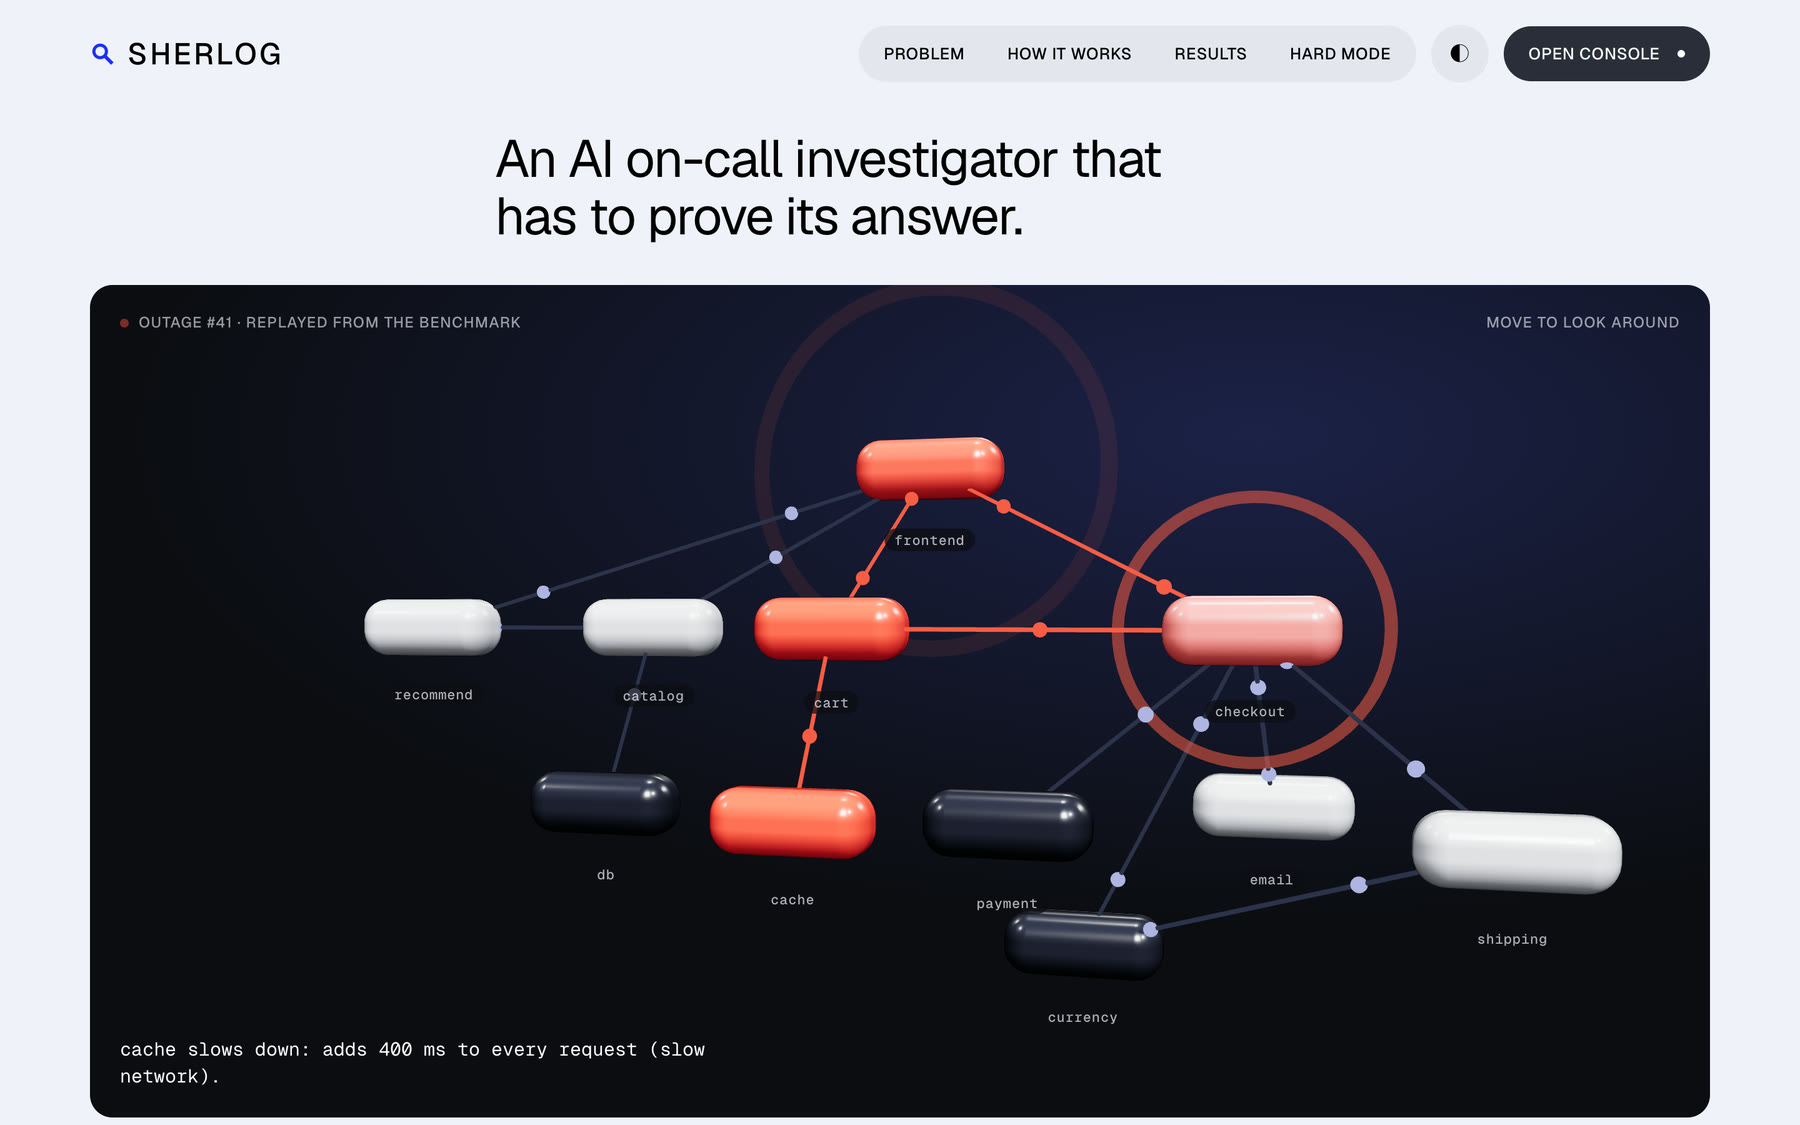
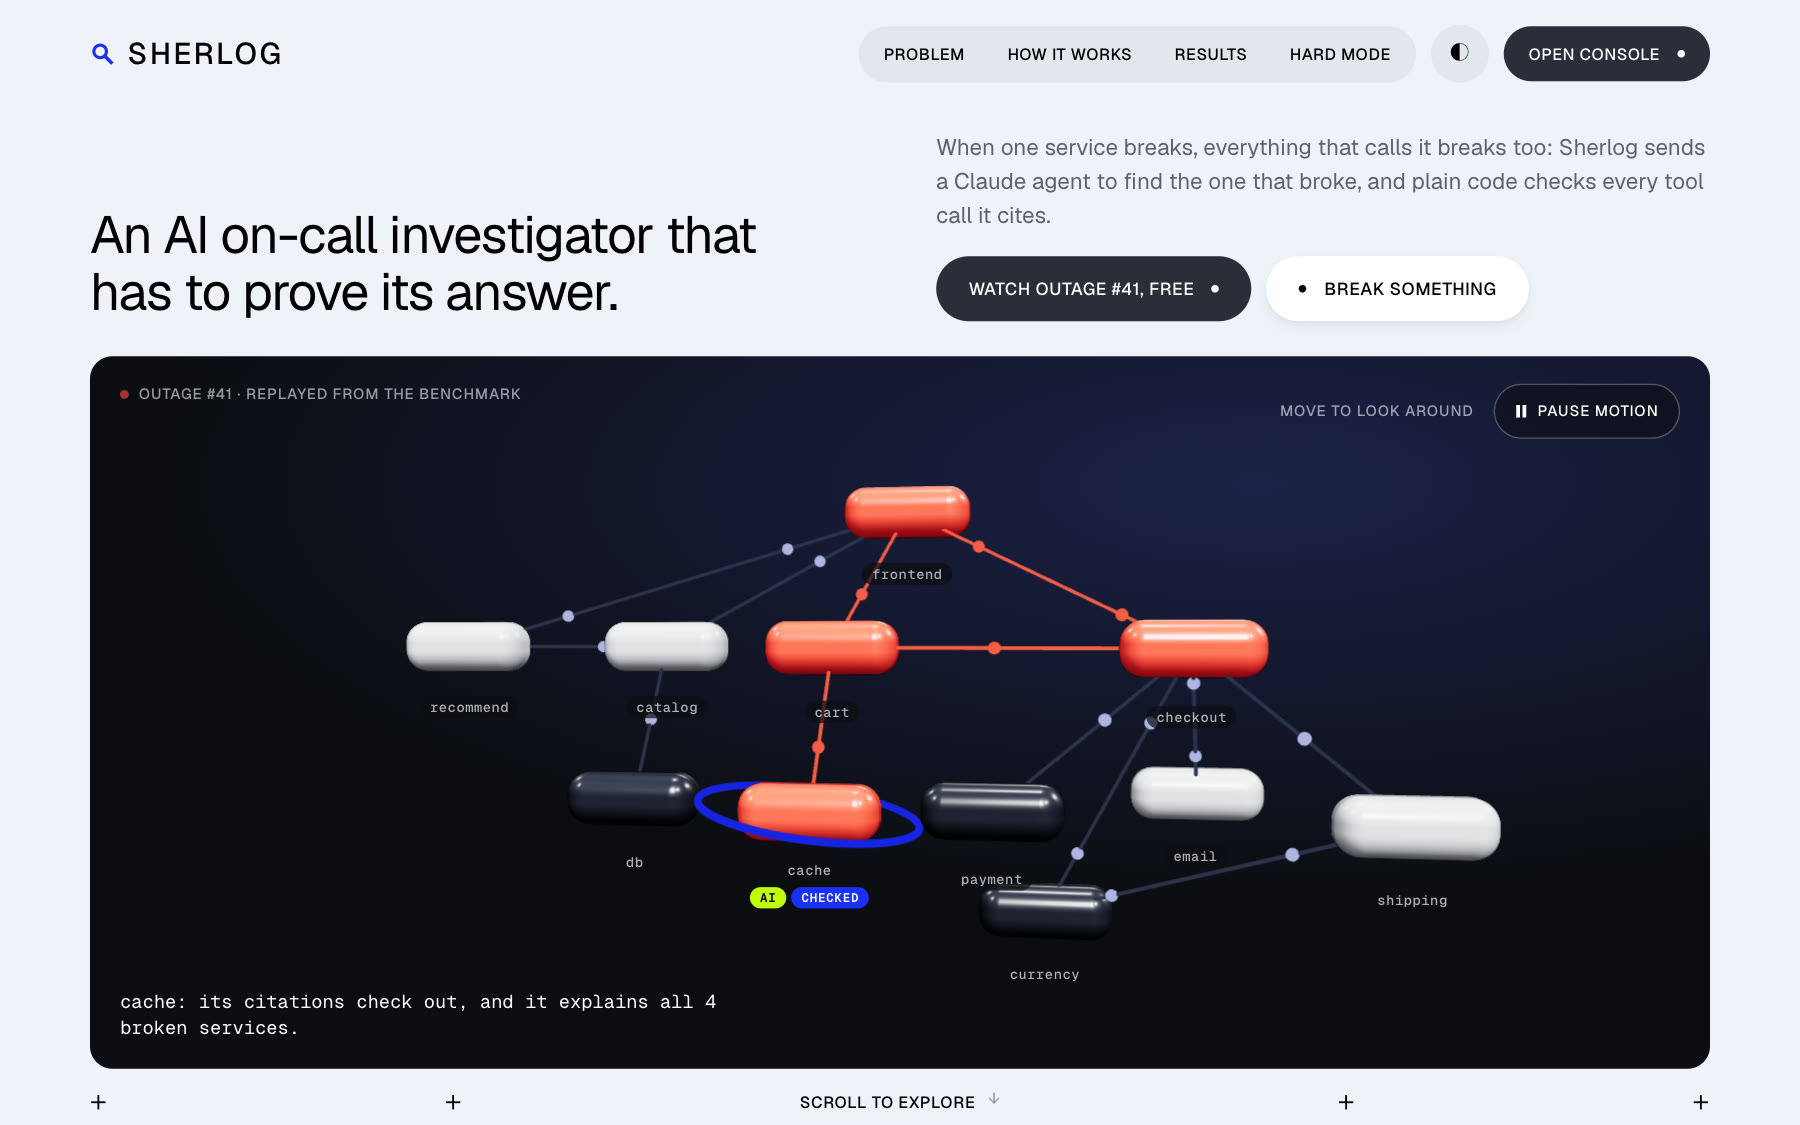
docs: recapture the gallery images from the live site, with alt text to match

diff --git a/README.md b/README.md
@@ -2,7 +2,7 @@
 
 **When one service breaks, everything that calls it breaks too. Sherlog is an AI on-call investigator that finds the one that broke, and has to prove it**: plain code checks every tool call it cites, and a replay with its answer rolled back shows whether the outage really stops.
 
-<p align="center"><a href="https://sherlog-jade.vercel.app"><img src="media/hero.jpg" alt="The Sherlog story page: the headline 'An AI on-call investigator that has to prove its answer' above a dark panel with the shop's eleven services in 3D, replaying outage #41. Cache, cart and frontend glow red and red rings spread as the slowdown reaches checkout. Click to open the live site." width="900"></a></p>
+<p align="center"><a href="https://sherlog-jade.vercel.app"><img src="media/hero.jpg" alt="The Sherlog story page: the headline 'An AI on-call investigator that has to prove its answer', a line on what it does and buttons to watch outage #41 or break something, above a dark panel with the shop's eleven services in 3D, replaying outage #41. Cache, cart, frontend and checkout glow red, and cache carries the tags AI and CHECKED: its citations check out and it explains all 4 broken services. Click to open the live site." width="900"></a></p>
 
 <p align="center">
   <a href="https://github.com/shaunmortal/sherlog/actions/workflows/tests.yml"><img src="https://github.com/shaunmortal/sherlog/actions/workflows/tests.yml/badge.svg" alt="Tests: the latest run of the test workflow"></a>
@@ -70,8 +70,8 @@ uv run --with-requirements requirements.txt python bench.py --report
 
 <table>
   <tr>
-    <td width="50%"><img src="media/wall.jpg" alt="The wall of red: eleven latency charts, four of them red. The reader guessed cart, which is marked a victim; cache is marked the cause."></td>
-    <td width="50%"><img src="media/stage.jpg" alt="How it works, step 3: the verifier checks each suspect's cited calls, marks the citations for cache, cart and checkout verified, and shows the blast radius on a small map."></td>
+    <td width="50%"><img src="media/wall.jpg" alt="One broken service, a wall of red: eleven latency charts, four of them red. The reader guessed cart, which is marked a victim; cache is marked the cause, and the line below says the classic no-AI ranking blamed cart too."></td>
+    <td width="50%"><img src="media/stage.jpg" alt="How it works, step 3 of 5: code checks each suspect's cited calls and marks the citations of cache, cart and checkout checked, since victims pass that too; the blast-radius line and a small map then show that cache explains all 4 abnormal services."></td>
   </tr>
   <tr>
     <td><em>A wall of red: pick the one that broke, then see which were victims.</em></td>
@@ -102,7 +102,7 @@ flowchart LR
 4. **Answer, or hand over.** If suspect #1's citations are verified and it is at least 80% confident, Sherlog answers and drafts the ticket note and the customer update. Anything less goes to a human; on the auto route, a doubtful Haiku answer goes to a fresh Opus investigation first.
 5. **Check the answer.** The **blast-radius check** asks whether the answer explains every service that stayed abnormal: each must be the answer or one of its callers, and only slowness and failures travel to callers. The **rollback replay** re-runs the outage from its seed with the answer rolled back and reports whether the alarm stops and which services recover. In hard mode the decoy's harmless CPU or memory anomaly can keep the alarm on, so the replay also counts as proof when every latency and error alarm ends. Both results are shown next to the verdict and neither changes it, with one exception: on the auto route, a Haiku answer that another service would explain better goes to Opus first.
 
-<p align="center"><img src="media/console.jpg" alt="The console after replaying outage 41: telemetry for all eleven services with the alarm marked, the flight log of the agent's tool calls c0 to c4, the scoreboard (you guessed cart, wrong; the Sherlog agent said cache, right; the z-score ranking said cart, wrong), the verdict with root cause cache at 90% confidence and its citations verified, the blast-radius line, and the service map tagged YOU, AI and CULPRIT." width="900"></p>
+<p align="center"><img src="media/console.jpg" alt="The console after replaying outage 41, its header reading MODE replay: telemetry for all eleven services with the alarm marked, the flight log of the agent's tool calls c0 to c4, the scoreboard (you guessed cart, wrong; the Sherlog agent said cache, right; the z-score ranking said cart, wrong), the verdict with root cause cache at 90% confidence and its citations verified, the blast-radius line, the rollback line (with cache rolled back the alarm stops, and cart, frontend and checkout recover), and the service map tagged YOU, AI and CULPRIT." width="900"></p>
 <p align="center"><em>Outage #41 in the console: the slowdown in <code>cache</code> makes cart, checkout and frontend look broken too. The z-score ranking blames <code>cart</code>; the agent names <code>cache</code>, and rolling <code>cache</code> back clears the outage.</em></p>
 
 ---
@@ -193,7 +193,7 @@ Brackets are 95% Wilson intervals. By fault type, the z-score ranking names the 
 
 The z-score ranking's 15 misses name the decoy 7 times; the call-graph rule's 4 misses all name it. Against the call-graph rule, paired outage by outage (only the method right · only the rule right, exact McNemar p): one-prompt Opus 0 · 5, p = 0.06; Haiku agent 2 · 4, p = 0.69; Sonnet agent 0 · 2, p = 0.5; Opus agent 3 · 0, p = 0.25; auto 2 · 2, p = 1.0. Opus was right where Haiku or Sonnet was not in 5 outages each, and never the reverse: suggestive, but p = 0.06 on 44 outages.
 
-<p align="center"><img src="media/hard.jpg" alt="Hard mode on the story page: bars for every method on 44 outages with a decoy. Opus agent 98% and never wrong; Haiku agent 86% with 5 wrong answers; Sonnet agent 86% with 2 wrong; auto 91%." width="900"></p>
+<p align="center"><img src="media/hard.jpg" alt="Hard mode on the story page: bars for every method on 44 outages with a decoy. No AI: z-score ranking 66%, robust z-score 57%, call-graph rule 91% with 4 wrong. Opus with one prompt 80% and never wrong; Haiku agent 86% with 5 wrong answers; Sonnet agent 86% with 2 wrong; Opus agent 98% and never wrong; auto 91% with 4 wrong." width="900"></p>
 
 </details>
 
